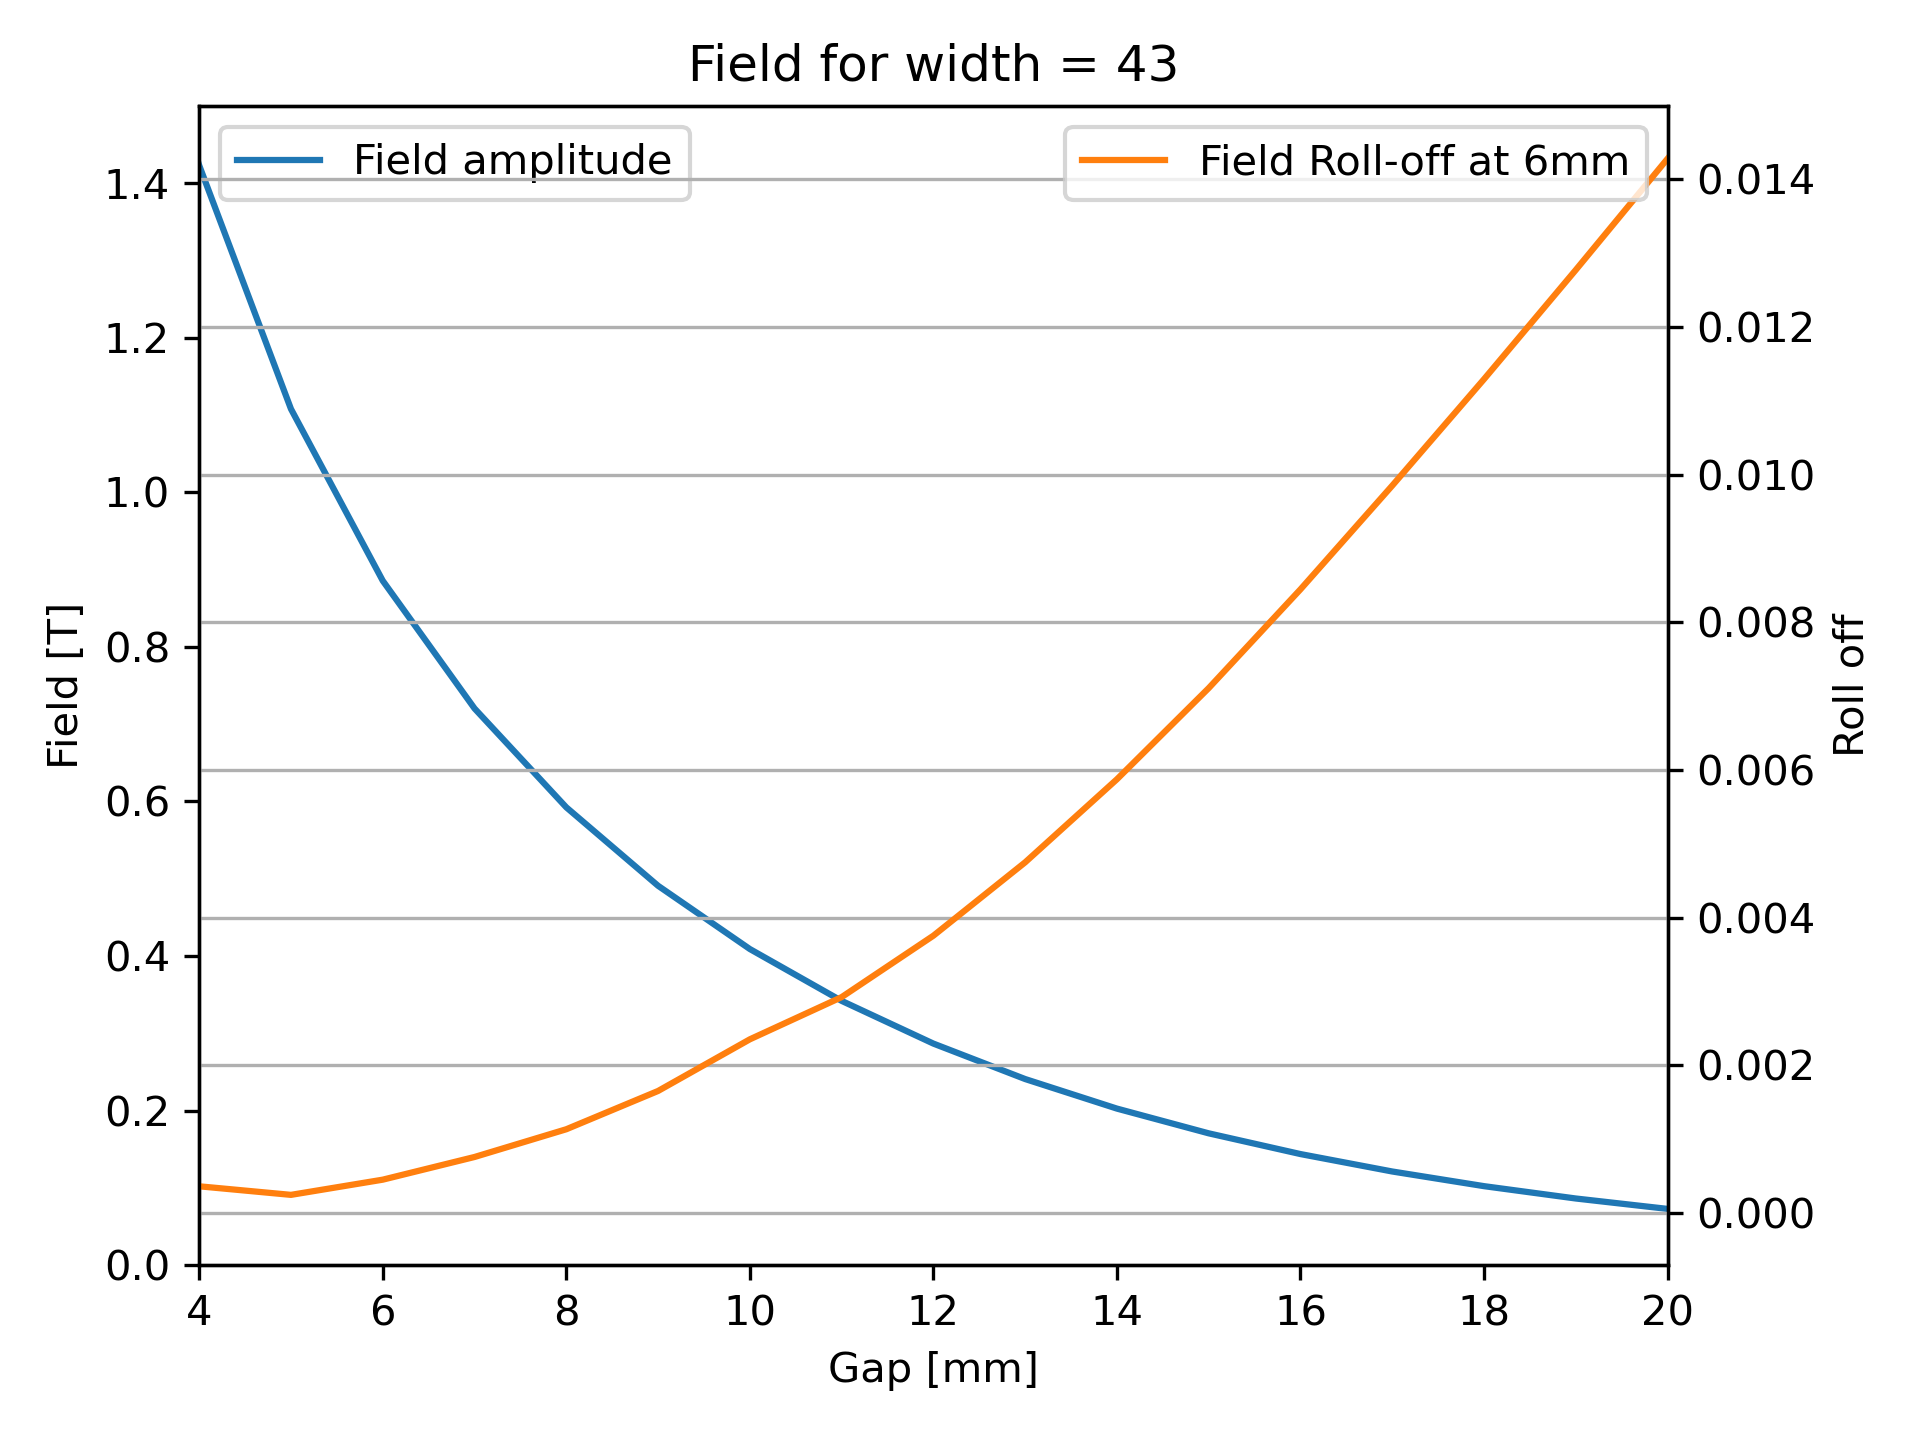
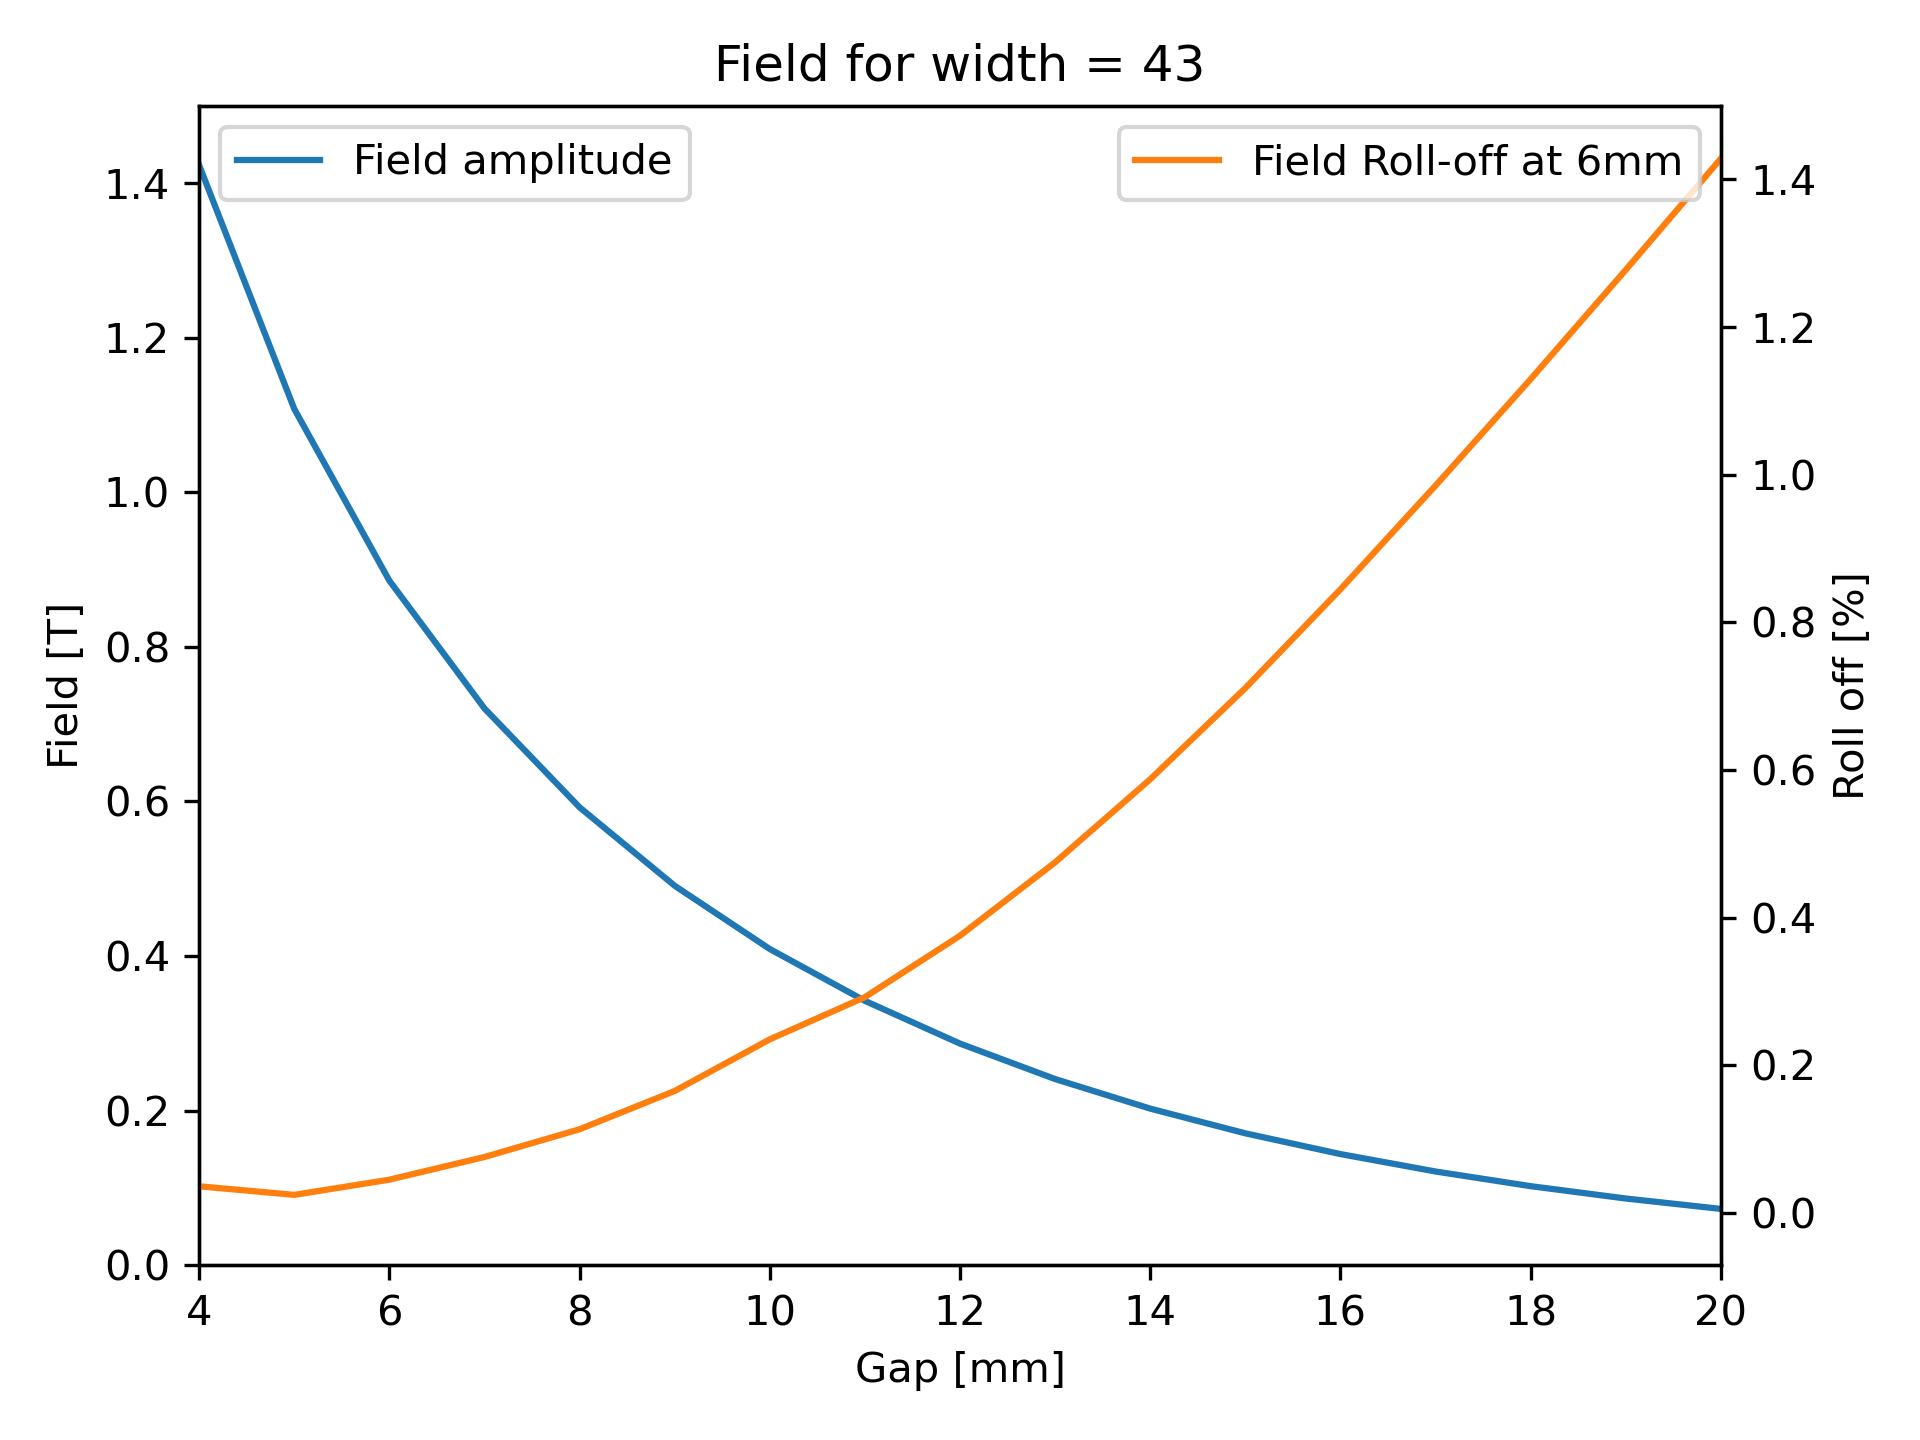
Update

diff --git a/scripts/ivu/check_kickmap.py b/scripts/ivu/check_kickmap.py
@@ -58,8 +58,10 @@ def find_fit(x, p):
 def plot_kick_at_plane(gap, posy, kick_plane='X'):
     """."""
     colors = ['b', 'g', 'y', 'C1', 'r', 'k']
-
     gap_str = '{:04.1f}'.format(gap).replace('.', 'p')
+    posy_str = '{:05.1f}'.format(posy).replace('.', 'p')
+    fname_fig = 'kick{}-gap{}mm-posy{}.png'.format(
+        kick_plane, gap_str, posy_str)
 
     widths= [68, 63, 58, 53, 48, 43, ]
     pxf_shift_list = list()
@@ -83,14 +85,16 @@ def plot_kick_at_plane(gap, posy, kick_plane='X'):
         pxf *= RESCALE_KICKS
         pyf *= RESCALE_KICKS
 
-        print(width)
-        print('pxf {:.3f}'.format(-1*pxf_shift*RESCALE_KICKS*1e6))
-        print('pyf {:.3f}'.format(-1*pyf_shift*RESCALE_KICKS*1e6))
+        # print(width)
+        # print('pxf {:.3f}'.format(-1*pxf_shift*RESCALE_KICKS*1e6))
+        # print('pyf {:.3f}'.format(-1*pyf_shift*RESCALE_KICKS*1e6))
         pxf_shift_list.append(-1*pxf_shift*RESCALE_KICKS*1e6)
 
         pf, klabel = (pxf, 'px') if kick_plane.lower() == 'x' else (pyf, 'py')
-        pfit = np.polyfit(rx0, pf, 21)
+        pfit = np.polyfit(rx0, pf, 5)
         pf_fit = np.polyval(pfit, rx0)
+
+        print(f'{width} {pfit[-3]:+7.4f}')
 
         label = 'width = {} mm'.format(width)
         plt.figure(1)
@@ -98,7 +102,7 @@ def plot_kick_at_plane(gap, posy, kick_plane='X'):
             1e3*rx0, 1e6*pf, '.-', color=color, label=label)
         plt.plot(
             1e3*rx0, 1e6*pf_fit, '-', color=color, alpha=0.6)
-    print(pxf_shift_list)
+    # print(pxf_shift_list)
 
     for i in [1]:
         plt.figure(i)
@@ -109,9 +113,8 @@ def plot_kick_at_plane(gap, posy, kick_plane='X'):
         plt.legend()
         plt.grid()
         plt.tight_layout()
-        plt.savefig(
-            './results/model/kickmap-all-widths-gap-{}.png'.format(gap),
-            dpi=300)
+        plt.savefig(fname_fig, dpi=300)
+
     plt.show()
 
 
@@ -154,5 +157,13 @@ def plot_kick_all_planes(gap, width):
 
 
 if __name__ == '__main__':
+    # plot_kick_at_plane(gap=4.2, posy=0*1.5, kick_plane='x')
+    # plot_kick_at_plane(gap=4.2, posy=1*1.5, kick_plane='x')
+    # plot_kick_at_plane(gap=20, posy=0*1.5, kick_plane='x')
+    # plot_kick_at_plane(gap=20, posy=1*1.5, kick_plane='x')
+
     plot_kick_at_plane(gap=4.2, posy=0*1.5, kick_plane='y')
+    # plot_kick_at_plane(gap=4.2, posy=1*1.5, kick_plane='y')
+    plot_kick_at_plane(gap=20, posy=0*1.5, kick_plane='y')
+    # plot_kick_at_plane(gap=20, posy=1*1.5, kick_plane='y')
     # plot_kick_all_planes(gap=4.2, width=68)

diff --git a/scripts/ivu/check_kickmap_model.py b/scripts/ivu/check_kickmap_model.py
@@ -13,6 +13,9 @@ from idanalysis import IDKickMap
 from pyaccel import lattice as pyacc_lat
 
 
+RESCALE_KICKS = 15.3846
+
+
 def calc_idkmap_kicks(plane_idx=0, plot_flag=False, idkmap=None):
     """."""
     brho = 10.007
@@ -37,11 +40,11 @@ def calc_idkmap_kicks(plane_idx=0, plot_flag=False, idkmap=None):
     return rx0, ry0, pxf, pyf, rxf, ryf
 
 
-def create_model_ids(width, rk, shift_kicks):
+def create_model_ids(gap, width, rk, shift_kicks):
     """."""
     print('--- model with kickmap ---')
-    ids = utils.create_ids(width, rescale_kicks=rk, shift_kicks=shift_kicks)
-    model = pymodels.si.create_accelerator(ids=ids)
+    ids = utils.create_ids(gap, width, rescale_kicks=rk, shift_kicks=shift_kicks)
+    model = pymodels.si.create_accelerator(ids=None)
     twiss, *_ = pyaccel.optics.calc_twiss(model, indices='closed')
     print('length : {:.4f} m'.format(model.length))
     print('tunex  : {:.6f}'.format(twiss.mux[-1]/2/np.pi))
@@ -50,26 +53,28 @@ def create_model_ids(width, rk, shift_kicks):
 
 
 if __name__ == '__main__':
-    width = 48
-    fname = utils.get_kmap_filename(width)
+    width = 43
+    gap = 20
+    fname = utils.get_kmap_filename(gap, width)
     id_kickmap = IDKickMap(fname)
+
+    plane_idx = list(id_kickmap.posy).index(0)
+
     rx0, ry0, pxf, pyf, rxf, ryf = calc_idkmap_kicks(
-      idkmap=id_kickmap, plane_idx=4, plot_flag=False)
+      idkmap=id_kickmap, plane_idx=plane_idx, plot_flag=False)
 
+    posx_zero_idx = list(id_kickmap.posx).index(0)
+    pxf_shift = pxf[posx_zero_idx]
+    pyf_shift = pyf[posx_zero_idx]
+    pxf -= pxf_shift
+    pyf -= pyf_shift
+    pxf *= RESCALE_KICKS
+    pyf *= RESCALE_KICKS
 
-    rk = 15.3846
-    pxf *= rk
-    pyf *= rk
-
-    shiftkx = +1e-6*119
-    shiftky = 0.0
-    shift_kicks = [shiftkx, shiftky]
-    pxf += shiftkx
-    pyf += shiftky
-
+    shift_kicks = [-pxf_shift * RESCALE_KICKS, -pyf_shift * RESCALE_KICKS]
 
     # lattice with IDs
-    model, twiss, ids = create_model_ids(width, rk, shift_kicks)
+    model, twiss, ids = create_model_ids(gap, width, RESCALE_KICKS, shift_kicks)
 
     famdata = pymodels.si.get_family_data(model)
     idx = famdata['IVU18']['index']

diff --git a/scripts/ivu/ivu_shangai.py b/scripts/ivu/ivu_shangai.py
@@ -152,7 +152,32 @@ def get_field_vs_gap(ivu, gaps, rx, peak_idx, data):
 
 
 
-if __name__ == "__main__":
+def plot_together():
+
+    colors = ['b', 'g', 'y', 'C1', 'r', 'k']
+    widths = [68, 63, 58, 53, 48, 43]
+    for width, color in zip(widths, colors):
+        fpath = './results/model/'
+        by, roff = load_data(fpath, width=width)
+        gaps = np.array(list(by.keys()))
+        by = np.array((list(by.values())))
+        roff = np.array((list(roff.values())))
+        # fig, ax1 = plt.subplots()
+        plt.semilogy(gaps, 1e4*roff*by, '.-', color=color, label='{:d} mm'.format(width))
+        plt.ylabel('Delta field [G]')
+        plt.xlabel('Gap [mm]')
+        plt.xlim(4, 20)
+        # plt.ylim(1e-6, 1e-2)
+        plt.legend()
+        plt.title('Absolute Field Rolloff @ x=6mm'.format(width))
+        plt.tight_layout()
+        # fpath = './results/'
+        # fig_path = fpath + 'width_{}/field_and_roff_width{}'.format(width, width)
+        # plt.savefig(fig_path, dpi=300)
+    plt.show()
+
+
+def plot_rolloff_field():
 
     gaps = np.linspace(1, 20, 20)
     rx = np.linspace(-40, 40, 4*81)
@@ -169,12 +194,12 @@ if __name__ == "__main__":
         fig, ax1 = plt.subplots()
         ax2 = ax1.twinx()
         ax1.plot(gaps, by, label='Field amplitude')
-        ax2.plot(gaps, roff, label='Field Roll-off at 6mm', color='C1')
-        ax2.set_ylabel('Roll off')
+        ax2.plot(gaps, 100*roff, label='Field Roll-off at 6mm', color='C1')
+        ax2.set_ylabel('Roll off [%]')
         ax1.set_ylabel('Field [T]')
-        ax2.grid(visible=True, axis='both')
-        ax2.legend()
-        ax1.legend()
+        # ax2.grid(visible=True, axis='both')
+        ax2.legend(loc='upper right')
+        ax1.legend(loc='upper left')
         ax1.set_xlabel('Gap [mm]')
         ax1.set_ylim(0, 1.5)
         plt.xlim(4, 20)
@@ -183,3 +208,6 @@ if __name__ == "__main__":
         fpath = './results/'
         fig_path = fpath + 'width_{}/field_and_roff_width{}'.format(width, width)
         plt.savefig(fig_path, dpi=300)
+
+if __name__ == "__main__":
+    plot_together()

diff --git a/scripts/ivu/ivu_18_multipoles.py b/scripts/ivu/ivu_18_multipoles.py
@@ -197,11 +197,12 @@ def plot_field_roll_off(data, widths, rx, filter='off'):
         if filter == 'on':
             rx = data['rx_avg'][width]
         roff = data['roll_off'][width]
-        label = "Roll-off at x=6 mm: {:.4f}, width {}".format(roff, width)
+        label = "width {}, {:.4f} %".format(width, 100*roff)
         print(label)
         plt.plot(rx, by, label=label, color=colors[i])
     plt.xlabel('x [mm]')
     plt.ylabel('By [T]')
+    plt.title('Field rolloff at x = 6 mm for Gap 4.2 mm')
     plt.legend()
     plt.grid()
     plt.show()
@@ -303,6 +304,7 @@ def run_generate_data(fpath, widths, rx, rz):
 
 def run_plot_data(fpath, widths, rx, rz):
     data = load_pickle(fpath + 'rk_traj_data_filter_opt_all.pickle')
+    # data = load_pickle(fpath + 'rk_traj_data_filter_opt_all_gap200.pickle')
     plot_rk_traj(widths, data)
     plot_field_roll_off(data=data, widths=widths, rx=rx, filter='on')
     plot_field_on_axis(data, widths, rz)
@@ -311,8 +313,7 @@ def run_plot_data(fpath, widths, rx, rz):
 if __name__ == "__main__":
 
     fpath = './results/model/'
-    # widths = ['32', '35', '38', '41', '44', '47']
-    widths = ['43', '48', '53', '58', '63', '68']
+    widths = ['68', '63', '58', '53', '48', '43']
     # widths = ['68']
     rx = np.linspace(-40, 40, 4*81)
     rz = np.linspace(-100, 100, 200)

diff --git a/scripts/ivu/utils.py b/scripts/ivu/utils.py
@@ -15,20 +15,21 @@ DEF_RK_S_STEP = 2  # [mm] seems converged for the measurement fieldmap grids
 FOLDER_BASE = '/home/ximenes/repos-dev/'
 
 
-def get_kmap_filename(width):
-    fname = f'./results/model/kickmap-ID-{width}-gap04p2mm-filter.txt'
+def get_kmap_filename(gap, width):
+    gap_str = '{:04.1f}'.format(gap).replace('.', 'p')
+    fname = f'./results/model/kickmap-ID-{width}-gap{gap_str}mm-filter.txt'
     return fname
 
 
 def create_ids(
-        width, nr_steps=None, rescale_kicks=15.3846,
+        gap, width, nr_steps=None, rescale_kicks=15.3846,
         rescale_length=15.3846, shift_kicks=[0.0, 0.0]):
     # create IDs
     nr_steps = nr_steps or 40
     rescale_kicks = rescale_kicks if rescale_kicks is not None else 1.0
     rescale_length = \
         rescale_length if rescale_length is not None else 1
-    fname = get_kmap_filename(width)
+    fname = get_kmap_filename(gap=gap, width=width)
 
     idkmap = IDKickMap(kmap_fname=fname)
     kickx_up = idkmap.kickx_upstream  # [T².m²]
